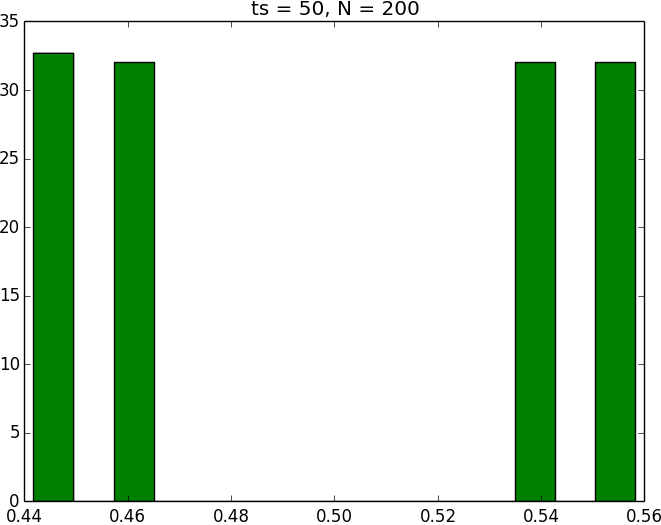
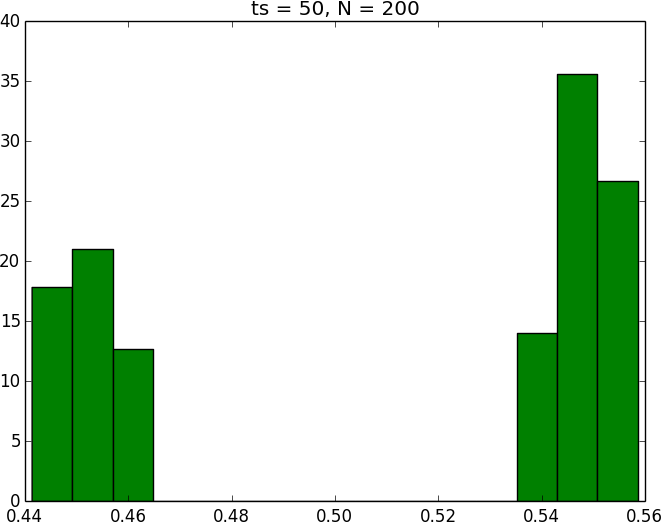
Errors fixed & 2*2 coordination game

diff --git a/coordgame.py b/coordgame.py
@@ -7,27 +7,37 @@ from __future__ import division
 
 fig, ax = plt.subplots()
 
-players = [0,1] # not used yet
-gamename = 'Matpenny'
+players = [0,1] 
+gamename = '2coordgame'
 
-
-trials = 201
+trials = 51
 current_x0 = random.uniform(0,1)
 current_x1 = random.uniform(0,1)
 
 # setting up the payoff function
 
-def pay0(a,b):
-    if a == b:
-        return 1
-    else:
-        return -1
 
-def pay1(a,b):
-    if a != b:
-        return 1
-    else:
-        return -1
+
+def pay0(a,b):
+    if a == 0 and b == 0:
+        return 4
+    elif a == 0 and b == 1:
+        return 0
+    elif a == 1 and b == 0:
+        return 3
+    elif a == 1 and b == 1:
+        return 2
+
+def pay1(b,a):
+    if a == 0 and b == 0:
+        return 4
+    elif a == 0 and b == 1:
+        return 0
+    elif a == 1 and b == 0:
+        return 3
+    elif a == 1 and b == 1:
+        return 2
+
 
 # best response function using the payoff function 
 def br0(x):
